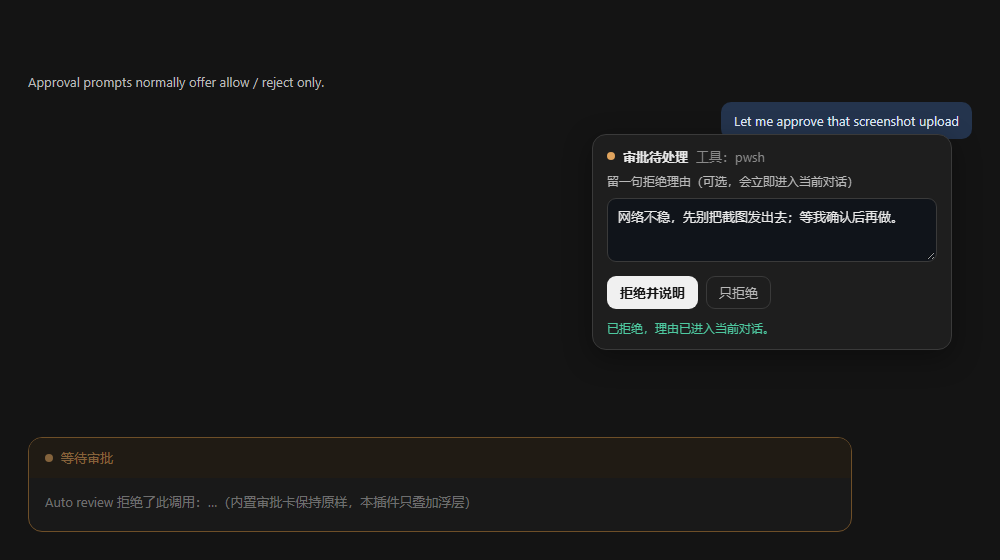
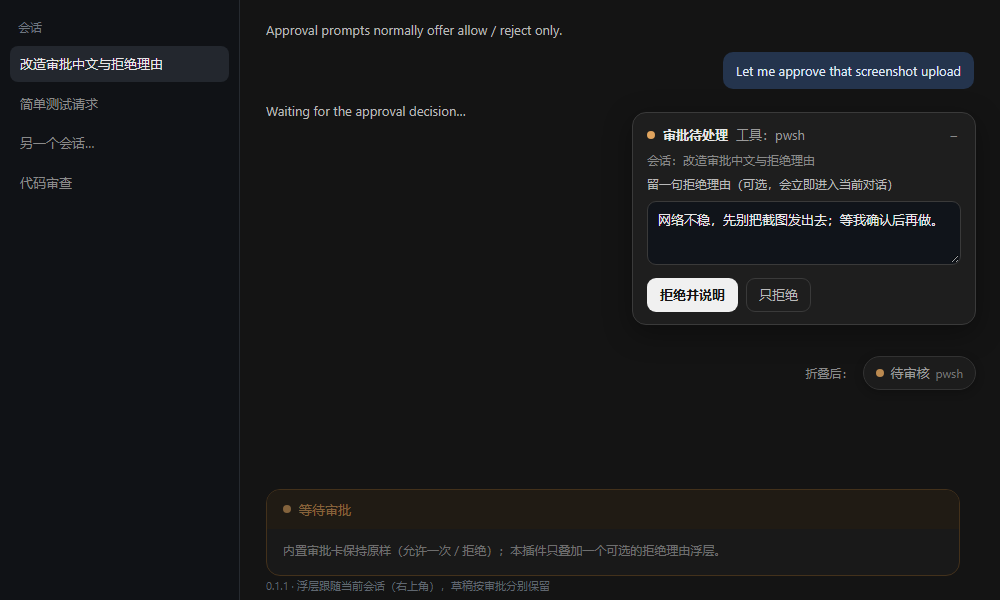
docs: refresh the README preview for 0.1.1

diff --git a/docs/preview.html b/docs/preview.html
@@ -2,102 +2,129 @@
 <html lang="zh-CN">
 <head>
 <meta charset="utf-8">
-<meta name="viewport" content="width=device-width, initial-scale=1">
-<title>dsh-approval-reason-dock preview</title>
+<title>dsh-approval-reason-dock preview (0.1.1)</title>
 <style>
   :root {
-    --dsw-alias-bg-layer-1: #141414;
-    --dsw-alias-bg-layer-2: #1e1e1e;
-    --dsw-alias-border-l1: #2a2a2a;
-    --dsw-alias-border-l2: #3a3a3a;
-    --dsw-alias-label-primary: #e8e8e8;
-    --dsw-alias-label-secondary: #b9b9b9;
-    --dsw-alias-label-tertiary: #8a8a8a;
-    --dsw-alias-label-primary-foreground: #141414;
-    --dsw-alias-button-primary-fill: #f0f0f0;
-    --dsw-alias-state-warn-primary: #e0a45e;
-    --dsw-alias-state-warn-label: #e0a45e;
-    --dsw-alias-state-success-primary: #4ec9a0;
-    --dsw-alias-state-error-primary: #e08a84;
-    --dsw-specific-input-major: #10141a;
-    --dsw-radius-md: 9px;
-    --dsw-radius-xl: 14px;
-    --dsw-shadow-lv2: 0 8px 28px rgba(0, 0, 0, 0.35);
-    --dsw-font-base-16-font-family: "Segoe UI", "Microsoft YaHei", system-ui, sans-serif;
-    --dsw-font-base-16-font-size: 13px;
-    --dsw-font-base-16-line-height: 1.5;
+    --bg: #141414;
+    --bg-2: #1e1e1e;
+    --border: #3a3a3a;
+    --text: #e8e8e8;
+    --text-2: #b9b9b9;
+    --text-3: #8a8a8a;
+    --warn: #e0a45e;
+    --primary-fill: #f0f0f0;
+    --primary-ink: #141414;
+    --input-bg: #10141a;
+    --radius-md: 9px;
+    --radius-xl: 14px;
+    --shadow: 0 8px 28px rgba(0,0,0,.35);
+    font-size: 13px;
   }
   * { box-sizing: border-box; }
+  html, body { margin: 0; width: 1000px; height: 600px; overflow: hidden; }
   body {
-    margin: 0;
-    min-height: 100vh;
-    background: var(--dsw-alias-bg-layer-1);
-    color: var(--dsw-alias-label-primary);
-    font: var(--dsw-font-base-16-font-size)/var(--dsw-font-base-16-line-height) var(--dsw-font-base-16-font-family);
-    display: flex;
-    align-items: flex-end;
-    justify-content: flex-end;
-    padding: 28px;
+    background: var(--bg);
+    color: var(--text);
+    font: 13px/1.5 "Segoe UI", "Microsoft YaHei", system-ui, sans-serif;
   }
-  .stage { width: 100%; max-width: 980px; position: relative; min-height: 460px; }
-  .chat-line { color: var(--dsw-alias-label-secondary); font-size: 13px; margin-bottom: 10px; }
-  .chat-user { color: #dfe8f5; background: #24344d; padding: 9px 13px; border-radius: 10px; width: fit-content; margin-left: auto; font-size: 13px; }
-  .approval {
-    position: absolute; left: 0; right: 120px; bottom: 0;
-    border: 1px solid #b9803a; border-radius: var(--dsw-radius-xl);
-    background: var(--dsw-alias-bg-layer-2); opacity: .55; overflow: hidden;
+  .window { position: relative; width: 1000px; height: 600px; }
+  .sidebar {
+    position: absolute; inset: 0 auto 0 0; width: 240px;
+    background: #101216; border-right: 1px solid #262a30;
+    padding: 14px 10px; color: var(--text-3); font-size: 13px;
   }
-  .approval .strip { display: flex; align-items: center; gap: 8px; padding: 10px 16px; background: #2a2115; color: var(--dsw-alias-state-warn-primary); font-size: 13px; }
-  .approval .body { padding: 14px 16px 20px; font-size: 13px; color: var(--dsw-alias-label-secondary); }
-  .dot { width: 8px; height: 8px; border-radius: 50%; background: currentColor; }
+  .sidebar .section { padding: 4px 8px 10px; color: #6f7680; font-size: 12px; }
+  .sidebar .item { padding: 8px 10px; border-radius: 8px; margin-bottom: 4px; white-space: nowrap; overflow: hidden; text-overflow: ellipsis; }
+  .sidebar .item.active { background: #23272e; color: var(--text); }
+  .main { position: absolute; left: 240px; right: 0; top: 0; bottom: 0; padding: 20px 26px; }
+  .main .line { color: var(--text-2); margin-bottom: 12px; }
+  .main .user { justify-self: end; width: fit-content; margin-left: auto; background: #24344d; color: #dfe8f5; padding: 9px 13px; border-radius: 10px; }
+  .builtin {
+    position: absolute; left: 266px; right: 40px; bottom: 24px;
+    border: 1px solid #6b4a22; border-radius: var(--radius-xl);
+    background: var(--bg-2); overflow: hidden; opacity: .55;
+  }
+  .builtin .strip { display: flex; align-items: center; gap: 8px; padding: 10px 16px; background: #2a2115; color: var(--warn); }
+  .builtin .body { padding: 12px 16px 16px; color: var(--text-2); font-size: 12px; }
+  .dot { width: 8px; height: 8px; border-radius: 50%; background: currentColor; flex: none; }
   .panel {
-    position: fixed; right: 48px; bottom: 210px; width: 360px; max-width: calc(100vw - 48px);
-    pointer-events: auto; padding: 12px 14px;
-    border-radius: var(--dsw-radius-xl);
-    border: 1px solid var(--dsw-alias-border-l2);
-    background: var(--dsw-alias-bg-layer-2);
-    color: var(--dsw-alias-label-primary);
-    box-shadow: var(--dsw-shadow-lv2);
+    position: absolute; right: 24px; top: 112px; width: 344px;
+    padding: 12px 14px; border-radius: var(--radius-xl);
+    border: 1px solid var(--border); background: var(--bg-2);
+    color: var(--text); box-shadow: var(--shadow);
   }
-  .head { display: flex; align-items: center; gap: 8px; margin-bottom: 6px; font-size: 13px; }
-  .head .title { color: var(--dsw-alias-label-primary); font-weight: 600; }
-  .head .tool { color: var(--dsw-alias-label-tertiary); font-weight: 400; }
-  .hint { margin-bottom: 8px; color: var(--dsw-alias-label-secondary); font-size: 12px; }
+  .head { display: flex; align-items: center; gap: 8px; margin-bottom: 6px; }
+  .head .dot { color: var(--warn); }
+  .head .title { font-weight: 600; flex: none; }
+  .head .tool { color: #9a9a9a; font-weight: 400; min-width: 0; overflow: hidden; text-overflow: ellipsis; white-space: nowrap; }
+  .head .collapse { margin-left: auto; padding: 0 4px; border: 0; background: transparent; color: var(--text-3); font: inherit; line-height: 1; cursor: pointer; }
+  .session { margin-bottom: 6px; color: var(--text-3); font-size: 12px; overflow: hidden; text-overflow: ellipsis; white-space: nowrap; }
+  .hint { margin-bottom: 8px; color: var(--text-2); font-size: 12px; }
   textarea {
     width: 100%; min-height: 64px; resize: vertical; padding: 8px 10px;
-    border-radius: var(--dsw-radius-md); border: 1px solid var(--dsw-alias-border-l2);
-    background: var(--dsw-specific-input-major); color: var(--dsw-alias-label-primary);
-    font: inherit; outline: none;
+    border-radius: var(--radius-md); border: 1px solid var(--border);
+    background: var(--input-bg); color: var(--text); font: inherit; outline: none;
   }
   .actions { display: flex; align-items: center; gap: 8px; margin-top: 9px; }
-  button { border-radius: var(--dsw-radius-md); padding: 6px 12px; font: inherit; cursor: pointer; border: 1px solid transparent; }
-  .primary { background: var(--dsw-alias-button-primary-fill); color: var(--dsw-alias-label-primary-foreground); font-weight: 600; }
-  .ghost { background: transparent; color: var(--dsw-alias-label-secondary); border-color: var(--dsw-alias-border-l2); }
-  .notice { margin-top: 10px; color: var(--dsw-alias-state-success-primary); font-size: 12px; }
+  button { border-radius: var(--radius-md); padding: 6px 12px; font: inherit; cursor: pointer; border: 1px solid transparent; }
+  .primary { background: var(--primary-fill); color: var(--primary-ink); font-weight: 600; }
+  .ghost { background: transparent; color: var(--text-2); border-color: var(--border); }
+  .pill-row { position: absolute; right: 24px; top: 356px; display: flex; align-items: center; gap: 10px; }
+  .pill-row .caption { color: var(--text-3); font-size: 12px; }
+  .pill {
+    display: inline-flex; align-items: center; gap: 6px;
+    padding: 6px 12px; border-radius: 999px;
+    border: 1px solid var(--border); background: var(--bg-2);
+    color: var(--text-2); opacity: .82; box-shadow: 0 2px 8px rgba(0,0,0,.25);
+  }
+  .pill .dot { color: var(--warn); }
+  .pill .tool { color: var(--text-3); font-size: 12px; }
+  .caption-bottom { position: absolute; left: 266px; bottom: 6px; color: #5f666f; font-size: 11px; }
 </style>
 </head>
 <body>
-  <div class="stage">
-    <div class="chat-line">Approval prompts normally offer allow / reject only.</div>
-    <div class="chat-user">Let me approve that screenshot upload</div>
-    <div class="approval">
-      <div class="strip"><span class="dot"></span>等待审批</div>
-      <div class="body">Auto review 拒绝了此调用：…（内置审批卡保持原样，本插件只叠加浮层）</div>
+  <div class="window">
+    <div class="sidebar">
+      <div class="section">会话</div>
+      <div class="item active">改造审批中文与拒绝理由</div>
+      <div class="item">简单测试请求</div>
+      <div class="item">另一个会话…</div>
+      <div class="item">代码审查</div>
     </div>
+
+    <div class="main">
+      <div class="line">Approval prompts normally offer allow / reject only.</div>
+      <div class="line user">Let me approve that screenshot upload</div>
+      <div class="line">Waiting for the approval decision…</div>
+    </div>
+
+    <div class="builtin">
+      <div class="strip"><span class="dot"></span>等待审批</div>
+      <div class="body">内置审批卡保持原样（允许一次 / 拒绝）；本插件只叠加一个可选的拒绝理由浮层。</div>
+    </div>
+
     <div class="panel">
       <div class="head">
-        <span class="dot" style="flex:none; color: var(--dsw-alias-state-warn-primary)"></span>
+        <span class="dot"></span>
         <span class="title">审批待处理</span>
         <span class="tool">工具：pwsh</span>
+        <button class="collapse" title="折叠">–</button>
       </div>
+      <div class="session">会话：改造审批中文与拒绝理由</div>
       <div class="hint">留一句拒绝理由（可选，会立即进入当前对话）</div>
       <textarea>网络不稳，先别把截图发出去；等我确认后再做。</textarea>
       <div class="actions">
         <button class="primary">拒绝并说明</button>
         <button class="ghost">只拒绝</button>
       </div>
-      <div class="notice">已拒绝，理由已进入当前对话。</div>
     </div>
+
+    <div class="pill-row">
+      <span class="caption">折叠后：</span>
+      <span class="pill"><span class="dot"></span>待审核<span class="tool">pwsh</span></span>
+    </div>
+
+    <div class="caption-bottom">0.1.1 · 浮层跟随当前会话（右上角），草稿按审批分别保留</div>
   </div>
 </body>
 </html>

diff --git a/README.md b/README.md
@@ -10,7 +10,7 @@ An additive web-client plugin for [DeepSeek Harness](https://github.com/deepseek
 
 ## Preview
 
-![Approval reason panel over the built-in approval card](https://raw.githubusercontent.com/FzqxDedafeiyu/dsh-approval-reason-dock/main/docs/preview.png)
+![Approval reason panel over the built-in approval card](https://raw.githubusercontent.com/FzqxDedafeiyu/dsh-approval-reason-dock/main/docs/preview.png?v=0.1.1)
 
 ## Why
 

diff --git a/README.zh.md b/README.zh.md
@@ -10,7 +10,7 @@
 
 ## 预览
 
-![审批拒绝理由浮层叠加在内置审批卡上](https://raw.githubusercontent.com/FzqxDedafeiyu/dsh-approval-reason-dock/main/docs/preview.png)
+![审批拒绝理由浮层叠加在内置审批卡上](https://raw.githubusercontent.com/FzqxDedafeiyu/dsh-approval-reason-dock/main/docs/preview.png?v=0.1.1)
 
 ## 为什么做这个
 
